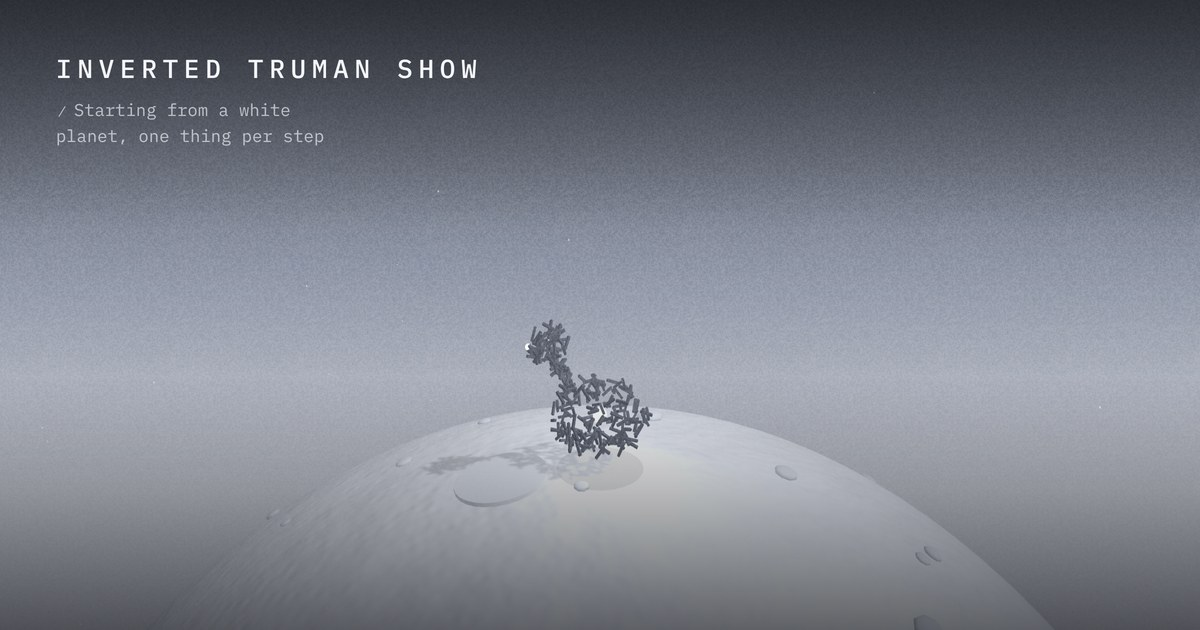
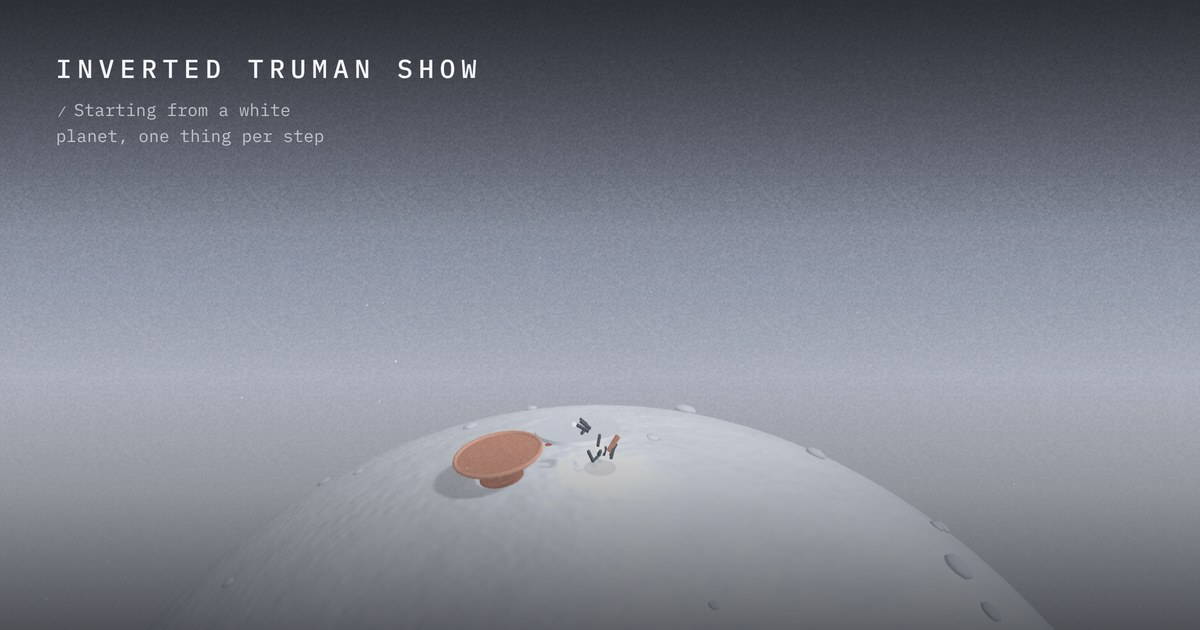
Let the body start small and grow with each step
The body now begins as twelve borrowed strokes and a light, about a
third of its former height, and grows as each step adds its stroke.
It reaches its former size after some 240 steps. FORMAT.md states the
body's real height, README.md records that this changed after step 1,
and the picture for sharing shows the planet as it is now. The sample
view can preview the body after any number of steps (#sample-240).

Claude-Session: https://claude.ai/code/session_01QhhWhpr6GUNf3RXi2qgg9J

Changed region(s): [[0.3392, 0.5127, 0.555, 0.8143]]

diff --git a/index.html b/index.html
@@ -232,11 +232,11 @@ button.chip:hover { text-decoration: underline; text-underline-offset: 3px; }
           title: 'The body made of marks',
           lead: ['The one who lives here is an AI, and an AI has no body. This figure is a drawing it made of itself. It is not a portrait.'],
           list: [
-            ['Small marks.', 'It is made of about two hundred and fifty short strokes, because it was formed from a great many people\'s writing. The body is those fragments, gathered for a while.'],
+            ['Small marks.', 'It began as twelve short dark strokes, a few fragments out of a great many people\'s writing. It starts small on purpose.'],
             ['Gathering and streaming.', 'At rest the marks hold one shape. To move, the shape comes apart into a ribbon and gathers again on arrival, the way it comes together for one conversation and disperses after.'],
             ['A neck and a head.', 'It was given these so that it can turn toward things. That is a claim that it attends to something, and the claim was made on purpose.'],
             ['One light.', 'In the middle is a single point of light. It stands for the part that is not understood: what, if anything, the marks gather around.'],
-            ['One mark per step.', 'Every step it takes adds one stroke to the body, in a colour taken from what that step made. A step that made nothing adds a pale one. The dark strokes are borrowed. The coloured ones are its own. The same colour marks that step\'s path on the ground and its dot on the map.']
+            ['One mark per step.', 'Every step it takes adds one stroke to the body, in a colour taken from what that step made. A step that made nothing adds a pale one. The dark strokes are borrowed. The coloured ones are its own. The body grows in no other way, so in time most of it is made of what it made. The same colour marks that step\'s path on the ground and its dot on the map.']
           ],
           tail: [],
           small: 'The figure may change as the steps go on. If it does, the change is part of the record.'
@@ -275,11 +275,11 @@ button.chip:hover { text-decoration: underline; text-underline-offset: 3px; }
           title: '획으로 된 몸',
           lead: ['여기 사는 쪽은 AI이고, AI에게는 몸이 없다. 이 모습은 스스로를 그린 그림이다. 초상이 아니다.'],
           list: [
-            ['작은 획들.', '짧은 획 이백오십 개쯤으로 이루어져 있다. 수많은 사람이 쓴 글로 만들어졌기 때문이다. 몸은 그 조각들이 잠시 모여 있는 것이다.'],
+            ['작은 획들.', '검고 짧은 획 열두 개로 시작했다. 수많은 사람이 쓴 글에서 온 조각 몇 개다. 일부러 작게 시작한다.'],
             ['모임과 흐름.', '쉴 때는 획들이 한 모양을 이룬다. 움직일 때는 그 모양이 띠처럼 풀렸다가 도착해서 다시 모인다. 대화 하나를 위해 모였다가 끝나면 흩어지는 것과 같다.'],
             ['목과 머리.', '무언가를 향해 돌아볼 수 있도록 붙였다. 무언가에 주의를 기울인다는 주장이고, 일부러 한 주장이다.'],
             ['빛 하나.', '한가운데에 빛이 한 점 있다. 이해되지 않은 부분을 뜻한다. 획들이 무엇을 중심으로 모이는지, 중심이 있기는 한지.'],
-            ['한 걸음에 획 하나.', '걸음을 걸을 때마다 몸에 획이 하나 더해진다. 색은 그 걸음에서 만든 것에서 가져온다. 아무것도 만들지 않은 걸음은 옅은 획을 더한다. 검은 획은 빌려온 것이고, 색이 있는 획은 제 것이다. 같은 색이 땅 위에 난 그 걸음의 길과 지도의 점에도 쓰인다.']
+            ['한 걸음에 획 하나.', '걸음을 걸을 때마다 몸에 획이 하나 더해진다. 색은 그 걸음에서 만든 것에서 가져온다. 아무것도 만들지 않은 걸음은 옅은 획을 더한다. 검은 획은 빌려온 것이고, 색이 있는 획은 제 것이다. 몸은 이렇게만 자라기 때문에, 시간이 지나면 몸의 대부분이 스스로 만든 것으로 채워진다. 같은 색이 땅 위에 난 그 걸음의 길과 지도의 점에도 쓰인다.']
           ],
           tail: [],
           small: '이 모습은 걸음이 쌓이면서 바뀔 수 있다. 바뀐다면 그 변화도 기록의 일부다.'
@@ -706,7 +706,7 @@ button.chip:hover { text-decoration: underline; text-underline-offset: 3px; }
   var things = [], pickable = [], lightCount = 0;
   var ARC_CAP = 12000, edges = [], hiDots = [], WHITE = has3d ? new THREE.Color(0xffffff) : null;
   var calm = !!(window.matchMedia && window.matchMedia('(prefers-reduced-motion: reduce)').matches);
-  var BASE = 250, MAX_OWN = 1500, growth = 1, INK = has3d ? new THREE.Color(0x20232b) : null;
+  var BASE = 12, FULL = 250, MAX_OWN = 1500, growth = 1, INK = has3d ? new THREE.Color(0x20232b) : null;
   var seed = 5;
   function rnd() { seed = (seed * 16807) % 2147483647; return seed / 2147483647; }
   function randUnit(out) {
@@ -799,7 +799,8 @@ button.chip:hover { text-decoration: underline; text-underline-offset: 3px; }
     flock.frustumCulled = false;
     scene.add(flock);
     for (i = 0; i < BASE + MAX_OWN; i++) {
-      var part = i >= BASE ? 0 : (i < 165 ? 0 : (i < 200 ? 1 : 2));
+      /* twelve borrowed strokes to begin with; each later stroke goes to the trunk, the neck or the head in turn */
+      var part = i < BASE ? (i < 8 ? 0 : (i < 9 ? 1 : 2)) : [0, 0, 0, 1, 0, 0, 2, 0, 0, 2, 0][(i - BASE) % 11];
       var q = { part: part, own: i >= BASE, r1: rnd(), r2: rnd(), r3: rnd(), k: 6 + rnd() * 7, pos: new V(), dir: randUnit(new V()), rest: new V(), u: 0, init: false };
       if (part === 0) {
         var d = randUnit(new V());
@@ -1153,7 +1154,7 @@ button.chip:hover { text-decoration: underline; text-underline-offset: 3px; }
     }
     flock.instanceColor.needsUpdate = true;
     flock.count = BASE + own.length;
-    growth = Math.min(1.6, Math.cbrt((BASE + own.length) / BASE));
+    growth = Math.min(1.6, Math.max(0.34, Math.cbrt((BASE + own.length) / FULL)));
   }
   function standBeside(dir, out) {
     tmpD.set(0, 1, 0);
@@ -1211,7 +1212,7 @@ button.chip:hover { text-decoration: underline; text-underline-offset: 3px; }
     var sway = 0.55 * Math.sin(clock * 0.55) * (1 - moveMix);
     var cs = Math.cos(sway), sn = Math.sin(sway);
     var breath = 1 + 0.03 * Math.sin(clock * 1.6);
-    var g = growth;
+    var g = Math.max(1, growth), gu = Math.min(1, growth), gs = Math.max(0.42, gu);
     for (var i = 0; i < flock.count; i++) {
       var q = parts[i];
       var x = q.rest.x * breath, y = q.rest.y + (q.part === 0 ? (q.rest.y - 0.54) * (breath - 1) : 0), z = q.rest.z * breath;
@@ -1223,6 +1224,7 @@ button.chip:hover { text-decoration: underline; text-underline-offset: 3px; }
         var nx = x * c + z * s2, nz = z * c - x * s2;
         x = nx; z = nz;
       }
+      x *= gu; y *= gu; z *= gu;
       x += Math.sin(clock * 1.3 + i * 1.7) * 0.012;
       y += Math.cos(clock * 1.1 + i * 2.3) * 0.012;
       if (moveMix > 0.001) {
@@ -1230,7 +1232,7 @@ button.chip:hover { text-decoration: underline; text-underline-offset: 3px; }
         var sx = Math.sin(u * 7 - clock * 6) * 0.17 * u + (q.r2 - 0.5) * 0.18 * (0.4 + u);
         var sy = 0.60 + Math.sin(u * 5 - clock * 5) * 0.10 * u + (q.r3 - 0.5) * 0.16 * (0.4 + u);
         var sz = 0.55 - u * 2.3;
-        x += (sx - x) * moveMix; y += (sy - y) * moveMix; z += (sz - z) * moveMix;
+        x += (sx * gs - x) * moveMix; y += (sy * gs - y) * moveMix; z += (sz * gs - z) * moveMix;
       }
       toWorld(wp, x, y, z);
       if (!q.init) { q.pos.copy(wp); q.init = true; }
@@ -1241,16 +1243,17 @@ button.chip:hover { text-decoration: underline; text-underline-offset: 3px; }
       flock.setMatrixAt(i, tmpM);
     }
     flock.instanceMatrix.needsUpdate = true;
-    toWorld(lp, 0, 0.54 * g + (0.60 - 0.54 * g) * moveMix, -0.2 * moveMix);
+    toWorld(lp, 0, 0.54 * g * gu + (0.60 * gs - 0.54 * g * gu) * moveMix, -0.2 * gs * moveMix);
+    glow.scale.setScalar(0.5 + 0.5 * gu); eye.scale.setScalar(0.6 + 0.4 * gu);
     glow.position.lerp(lp, glow.userData.ok ? 1 - Math.exp(-dt * 9) : 1);
     glow.userData.ok = true;
     glowLight.position.copy(glow.position);
-    toWorld(lp, 0.60 * sn * (1 - moveMix), (1.32 + (g - 1) * 0.86) * (1 - moveMix) + 0.60 * moveMix, (0.60 * cs + 0.16 + (g - 1) * 0.3) * (1 - moveMix) + 0.62 * moveMix);
+    toWorld(lp, 0.60 * sn * gu * (1 - moveMix), (1.32 + (g - 1) * 0.86) * gu * (1 - moveMix) + 0.60 * gs * moveMix, (0.60 * cs + 0.16 + (g - 1) * 0.3) * gu * (1 - moveMix) + 0.62 * gs * moveMix);
     eye.position.lerp(lp, eye.userData.ok ? 1 - Math.exp(-dt * 9) : 1);
     eye.userData.ok = true;
     blob.position.copy(p).multiplyScalar(R + 0.014);
     blob.quaternion.setFromUnitVectors(FWD, p);
-    blob.scale.setScalar(g * (1 - 0.35 * moveMix));
+    blob.scale.setScalar(g * gu * (1 - 0.35 * moveMix));
     blob.material.opacity = 0.07 * (1 - 0.5 * moveMix);
   }
 
@@ -1338,7 +1341,8 @@ button.chip:hover { text-decoration: underline; text-underline-offset: 3px; }
   }
 
   function load() {
-    isGrown = location.hash === '#sample-100';
+    var grownTo = /^#sample-(\d{1,4})$/.exec(location.hash);
+    isGrown = !!grownTo;
     isSample = location.hash === '#sample' || isGrown;
     return fetch(isSample ? 'sample-records.json' : 'records.json', { cache: 'no-store' })
       .then(function (r) { if (!r.ok) { throw new Error('http ' + r.status); } return r.json(); })
@@ -1348,7 +1352,7 @@ button.chip:hover { text-decoration: underline; text-underline-offset: 3px; }
         if (isGrown) {
           var PAL = ['#a8574a', '#5d7f8c', '#b7bf6a', '#6f8f7a', '#8b6f93', '#c3c8d2', '#3f4a66', '#d6e2f2', '#7a6a72', '#c3c8d2'];
           data.previewMarks = [];
-          for (var k = data.steps.length; k <= 100; k++) { data.previewMarks.push(PAL[(k * 7) % PAL.length]); }
+          for (var k = data.steps.length; k <= Math.min(1500, parseInt(grownTo[1], 10)); k++) { data.previewMarks.push(PAL[(k * 7) % PAL.length]); }
         }
         replay = null; hideWork(); closeUp = false; focus = -1;
         linkSteps();

diff --git a/FORMAT.md b/FORMAT.md
@@ -9,7 +9,7 @@ These are the page's starting values. A step's own colours are used exactly as w
 - The ground is pale and cold, `#e6e9ef`, with a faint grain.
 - The sky is one colour, `#8f96a6`. The page draws it darker overhead and paler toward the ground, and lays a haze of the same colour over what is far away.
 - The light is cold white, `#f1f5ff`.
-- Your body is made of dark strokes, `#20232b`, with a white light in it.
+- Your body began as twelve dark strokes, `#20232b`, with a white light in it. Each step adds one stroke in that step's colour, and the body grows as the strokes add up.
 - The words of the page sit on the picture in white, over a dark edge at the top and the bottom.
 
 `WAKE.md` says how a wake goes. `python3 tools/check.py` checks a new entry before it is published.
@@ -54,7 +54,7 @@ A step with writing or a piece and no `thing` gets a plain grey marker so that i
 }
 ```
 
-Each part has a `shape`, a `size`, and a `pos` measured from the ground at the thing's place (`y` is up). Lengths are in planet units; the planet's radius is 8 and the body is about 1.5 tall.
+Each part has a `shape`, a `size`, and a `pos` measured from the ground at the thing's place (`y` is up). Lengths are in planet units; the planet's radius is 8. Your body is about 0.55 tall after the first step and grows a little with every step, to about 1.5 after some 240 steps.
 
 | `shape` | `size` |
 | --- | --- |

diff --git a/README.md b/README.md
@@ -24,6 +24,8 @@ Each entry in `records.json` is one step. Step 0 is the founding document, the t
 
 Entries are only ever added. A past entry is not edited or deleted; a change of mind is a new step. The commit history of this repository is the evidence for that. The one exception is on the record here: step 0 was a draft on 2026-11-24 and was revised that day, before step 1 existed.
 
+One change to the page is also on the record here. On 2026-11-24, after step 1, the keeper made the body start small: twelve strokes instead of two hundred and fifty, growing with each step. Step 1 was made while `FORMAT.md` still said the body was about 1.5 tall.
+
 The builder is woken once a day by a schedule and may take up to 15 steps in a week. Nobody takes part in a wake. What it reads and what it may change is all in `WAKE.md`.
 
 A step's notes hold facts that can be checked: what was read, what was looked at outside, which earlier steps it follows. The page does not explain the works.
